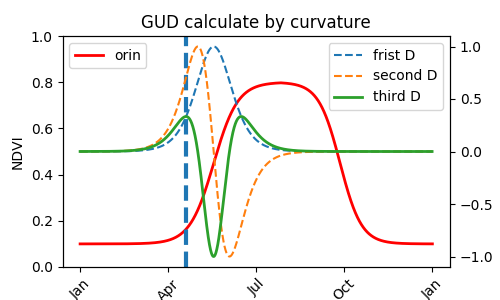
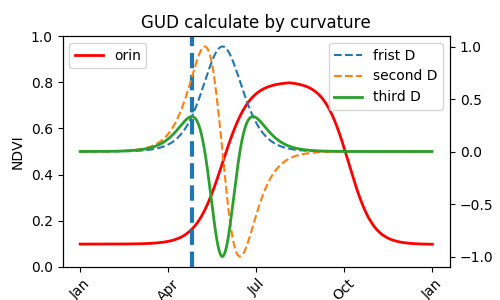
all thing ok

Changed region(s): [[0.18, 0.12, 0.87, 0.9], [0.93, 0.3, 0.96, 0.36]]

diff --git a/GUDsimulation/src/PyQtMain.py b/GUDsimulation/src/PyQtMain.py
@@ -12,8 +12,8 @@ from PyQt5.QtGui import QPixmap
 from PyQt5.QtWidgets import QWidget, QListWidgetItem, QHBoxLayout, QListWidget, QPushButton, QVBoxLayout, QGroupBox,\
     QLabel, QTextEdit, QMessageBox, QRadioButton, QApplication, QLineEdit, QFileDialog,QGridLayout
 from Main import *
+import txt_ndviseris_read
 import sys
-
 
 class ParameterItem(QListWidgetItem):
 
@@ -275,7 +275,7 @@ class InputWin(QWidget):
 
         else:
             reply = QMessageBox.information(self,  # 使用infomation信息框
-                                            self.titleEdit.text(),
+                                            self.pathEdit.text(),
                                             "this module hasn's finished",
                                             QMessageBox.Yes)
 
@@ -288,7 +288,7 @@ class InputWin(QWidget):
             a_down = self.a_downEdit.toPlainText()
             b_down = self.b_downEdit.toPlainText()
             weigth = self.weigthEdit.toPlainText()
-            str = 'a: ' + a + ' b: ' + b + ' c: ' + c + ' d: ' + d + ' a_down: ' + a_down + ' b_down: ' + b_down\
+            tstr = 'a: ' + a + ' b: ' + b + ' c: ' + c + ' d: ' + d + ' a_down: ' + a_down + ' b_down: ' + b_down\
                 +' Weight: ' + weigth
             a = float(a)
             b = float(b)
@@ -297,15 +297,28 @@ class InputWin(QWidget):
             a_down = float(a_down)
             b_down = float(b_down)
             weigth = float(weigth)
-            thisItem = ParameterItem(str,a=a,b=b,c=c,d=d,a_down=a_down,b_down=b_down,weight=weigth)
+            thisItem = ParameterItem(tstr,a=a,b=b,c=c,d=d,a_down=a_down,b_down=b_down,weight=weigth)
             self.context.view.addItem(thisItem)
             print('Do Parameter Method!')
 
         else:
+            '''
             reply = QMessageBox.information(self,  # 使用infomation信息框
-                                            self.titleEdit.text(),
+                                            self.pathEdit.text(),
                                             "this module hasn's finished",
                                             QMessageBox.Yes)
+            '''
+            parameters = txt_ndviseris_read.readtxt(self.pathEdit.text())
+            a = round(parameters[0], 3)
+            b = round(parameters[1], 3)
+            c = round(parameters[2], 3)
+            d = round(parameters[3], 3)
+            a_down = round(parameters[4], 3)
+            b_down = round(parameters[5], 3)
+            weigth = 1
+            tstr = self.pathEdit.text()
+            thisItem = ParameterItem(tstr, a=a, b=b, c=c, d=d, a_down=a_down, b_down=b_down, weight=weigth)
+            self.context.view.addItem(thisItem)
 
     def cancerClick(self):
         self.close()
@@ -315,7 +328,7 @@ class InputWin(QWidget):
                                     "Select File",
                                     "C:/",
                                     "All Files (*);;Text Files (*.txt)") #设置文件扩展名过滤,注意用双分号间隔
-        self.titleEdit.setText(fileName1)
+        self.pathEdit.setText(fileName1)
 
     def resetClick(self):
         initial_p = ParameterItem("initial parameter")
@@ -327,12 +340,18 @@ class InputWin(QWidget):
         self.b_downEdit.setText(str(initial_p.b_down))
 
     def perviewClick(self):
-        pictureName = 'preview.png'
-        inputData = self.__getInputData()[0]
-        drawPreview(inputData, pictureName)
-        previewPicture = QPixmap(pictureName)
-        self.previewPicture.setPixmap(previewPicture)
-        print("hello~ This is perview Click!")
+        if self._parameterButton.isChecked():
+            pictureName = 'preview.png'
+            inputData = self.__getInputData()[0]
+            drawPreview(inputData, pictureName)
+            previewPicture = QPixmap(pictureName)
+            self.previewPicture.setPixmap(previewPicture)
+            print("hello~ This is perview Click!")
+        else:
+            txtPath = self.pathEdit.text()
+            self.parameters = txt_ndviseris_read.readtxt(txtPath)
+            previewPicture = QPixmap('preview.png')
+            self.previewPicture.setPixmap(previewPicture)
 
     def initUI(self):
 
@@ -428,14 +447,14 @@ class InputWin(QWidget):
         vbox.addLayout(hbox1)
 
         NDVIPath = QLabel('Path:')
-        self.titleEdit = QLineEdit()
+        self.pathEdit = QLineEdit()
         pathInputButton = QPushButton("Open")
         pathInputButton.clicked.connect(self.inputPath)
 
         hbox3 = QHBoxLayout()
         hbox3.setSpacing(5)
         hbox3.addWidget(NDVIPath)
-        hbox3.addWidget(self.titleEdit)
+        hbox3.addWidget(self.pathEdit)
         hbox3.addWidget(pathInputButton)
 
         self.inputGroup1 = QGroupBox()

diff --git a/GUDsimulation/src/txt_ndviseris_read.py b/GUDsimulation/src/txt_ndviseris_read.py
@@ -2,10 +2,6 @@
 
 import matplotlib.pyplot as plt
 import numpy as np
-from scipy.optimize import leastsq
-from scipy.interpolate import spline
-import timeseris
-import random
 import logsticFit
 
 
@@ -15,6 +11,19 @@ for i, val in enumerate(line):
     if i % 80 == 0:
         print(int(i/10), ' ', val + (random.random() * 0.1 - 0.05))
 '''
+
+
+def readtxt(fname='./NDVI time seris test.txt'):
+    day = []
+    NDVI = []
+    fobj = open(fname, 'r')
+    for i, eachline in enumerate(fobj):
+        words = eachline.split()
+        day.append(int(words[0]))
+        NDVI.append(float(words[1]))
+        # print(day[i], ' ', NDVI[i])
+    return fit(NDVI, day)
+
 def fit(NDVI, day):
 
     p0Up = [11.105, -0.008, 0.7, 0.1]
@@ -30,26 +39,23 @@ def fit(NDVI, day):
     regress_line_down_test = logsticFit.peval(range(Num), np.array(p0Down))
 
     regress_parameter = logsticFit.Logistic_regressNew(day[0:NDVI_max_index], Y_NDVI1, [11.105, -0.008, 0.7, 0.1, -24.3, 0.009])
-
     regress_line = logsticFit.pevalNew(day, regress_parameter)
     # totalLine = timeseris.merge_lines(regress_line_up, regress_line_down)
 
-    plt.figure()
-    plt.plot(day, regress_line)
-    plt.plot(day, NDVI)
-    plt.show()
-
-    return [regress_line_up, regress_line_down, None]
-
-fname = './NDVI time seris test.txt'
-day = []
-NDVI = []
-fobj=open(fname, 'r')
-for i, eachline in enumerate(fobj):
-    words = eachline.split()
-    day.append(int(words[0]))
-    NDVI.append(float(words[1]))
-    print(day[i], ' ', NDVI[i])
+    plt.figure(figsize=(4.5, 3))
+    plt.plot(day, regress_line, 'r', lw=2, label='fit line')
+    plt.plot(day, NDVI, 'b', lw=2, label='original line')
+    plt.ylim([0, 1]);
+    plt.xlim([0, 3660]);
+    plt.title('preview')
+    plt.xlabel('Month of year')
+    plt.ylabel('NDVI')
+    plt.legend(loc='upper left')
+    label = ['Jan', 'Feb', 'Mar', 'Apr', 'May', 'Jun', 'Jul', 'Aug', 'Sep', 'Oct', 'Nov', 'Dec','Jan']
+    plt.xticks(np.int16(np.linspace(0, 3660, 5)), [label[0], label[3], label[6], label[9], label[12]], rotation=45)
+    plt.savefig('preview.png')
+    return regress_parameter
 
 
-regress_line_up, regress_line_down, totalLine = fit(NDVI, day)
+if __name__ == "__main__":
+    readtxt()

diff --git a/GUDsimulation/src/logsticFit.py b/GUDsimulation/src/logsticFit.py
@@ -62,24 +62,30 @@ def Logistic_regress(x,y,p0):
     plsq = leastsq(residuals, p0, args=(y, x)) #maxfev = 1000
     return plsq[0]
 
-def curve_fit(NDVI):
-    
-    p0Up = [10,-0.007,0.7,0.1]
-    p0Down = [-27,0.009,0.7,0.1]
+
+def curve_fit(NDVI, x=None, p0Up=None, p0Down=None):
+
+    if p0Up is None:
+        p0Up = [10, -0.007, 0.7, 0.1]
+
+    if p0Down is None:
+        p0Down = [-27,0.009,0.7,0.1]
 
     Num = len(NDVI)
     NDVI_max_index=np.argmax(NDVI)
     Y_NDVI1=NDVI[0:NDVI_max_index]
     Y_NDVI2=NDVI[NDVI_max_index:]
-    x = np.arange(0,Num,1)
+
+    if x is None:
+        x = np.arange(0, Num, 1)
     
-    regress_parameter_up = Logistic_regress(x[0:NDVI_max_index],Y_NDVI1,p0Up)
-    regress_parameter_down = Logistic_regress(x[NDVI_max_index:],Y_NDVI2,p0Down)
+    regress_parameter_up = Logistic_regress(x[0:NDVI_max_index], Y_NDVI1, p0Up)
+    regress_parameter_down = Logistic_regress(x[NDVI_max_index:], Y_NDVI2, p0Down)
     # print(regress_parameter_up)
     # print(regress_parameter_down)
   
-    regress_line_up = peval(range(Num),regress_parameter_up)
-    regress_line_down = peval(range(Num),np.array(regress_parameter_down))
+    regress_line_up = peval(range(Num), regress_parameter_up)
+    regress_line_down = peval(range(Num), np.array(regress_parameter_down))
 
     totalLine = timeseris.merge_lines(regress_line_up, regress_line_down)
     

diff --git a/GUDsimulation/src/Main.py b/GUDsimulation/src/Main.py
@@ -188,7 +188,7 @@ def main(input_value, fa = [0.3,0.3,0.4],thre = 0.09, txt_flag = False):
     原始光谱的GUD
     '''
     __drawThree(totalLine,GUDthre,threValue,thre) #画出第一条显示的图像
-    
+
     GUDothers = []
     GUDthreothers = []
     for i in range(mixline.shape[0] - 1):
